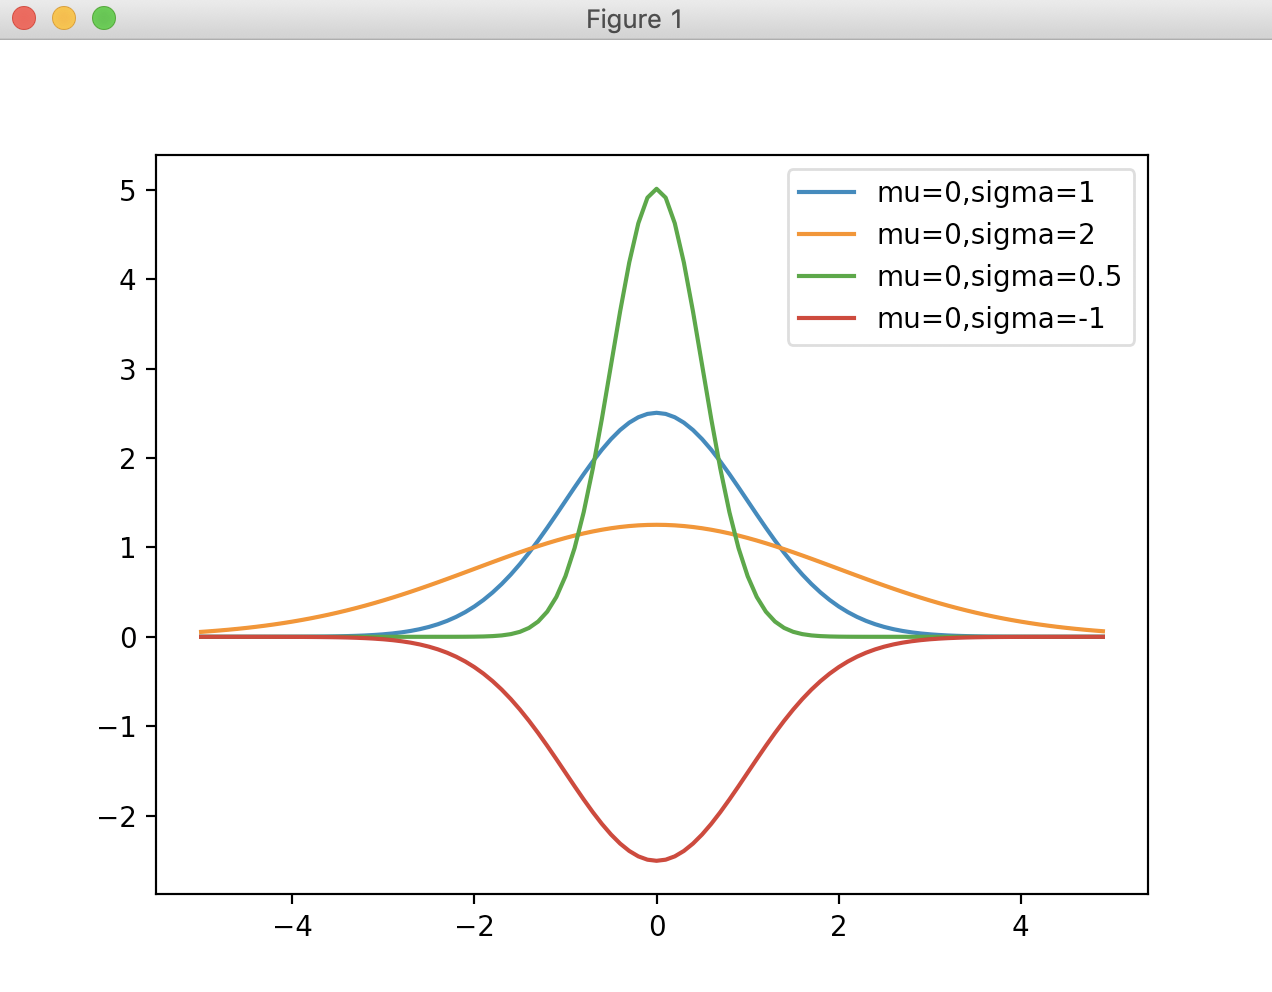
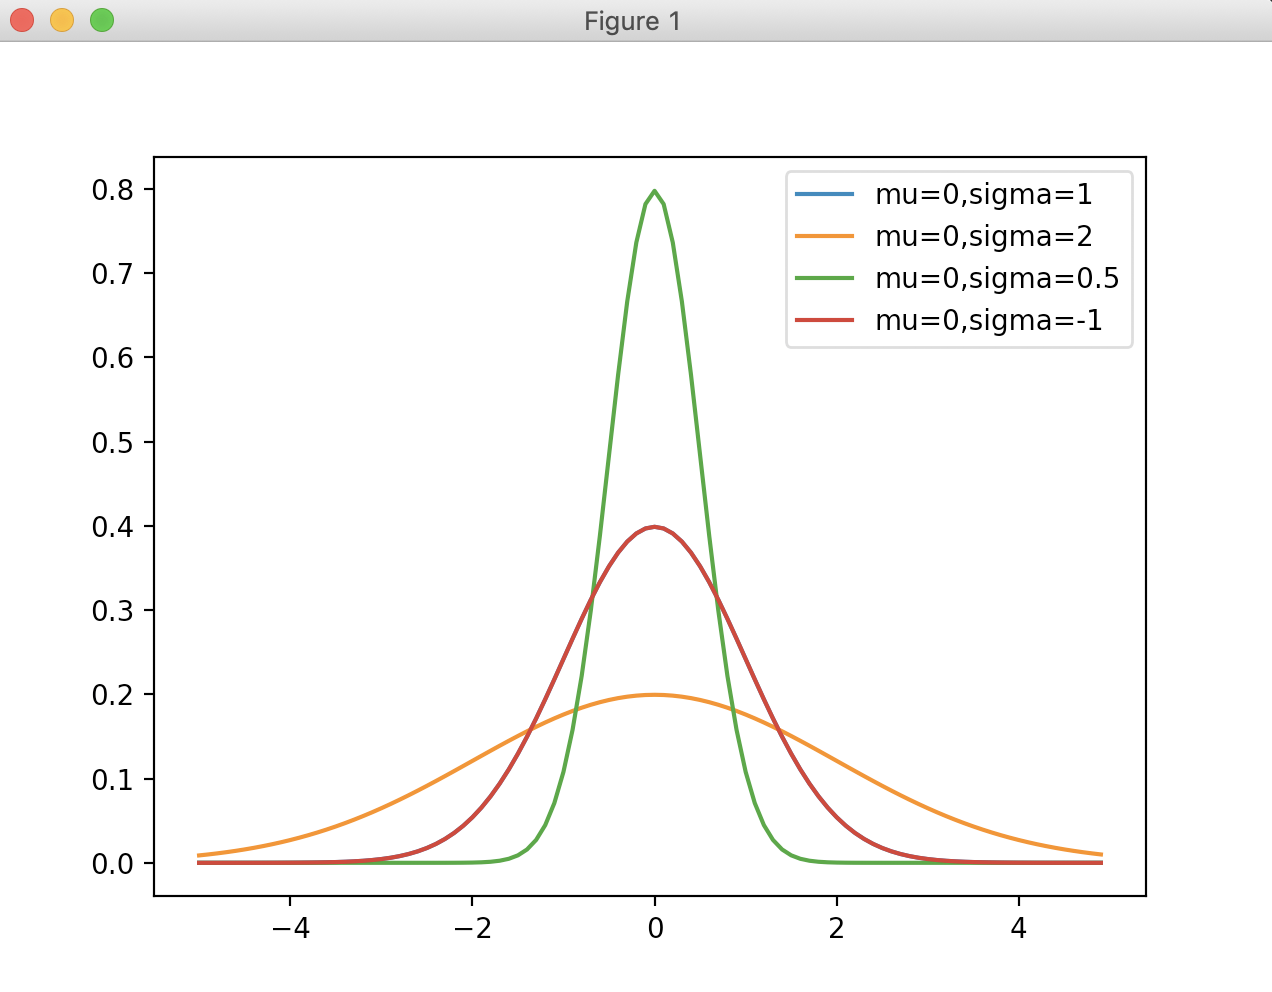
Lab 2

diff --git a/normal_df.py b/normal_df.py
@@ -2,7 +2,7 @@ import numpy as np
 
 def normal_pdf(x, mu=0, sigma=1):
     # TODO
-    return 1/sigma*np.sqrt(2*np.pi) * np.exp(-((x-mu)**2)/(2*sigma**2))
+    return 1/np.sqrt(2*np.pi*sigma**2) * np.exp(-((x-mu)**2)/(2*sigma**2))
     # hits: math.exp
 
 from matplotlib import pyplot as plt
